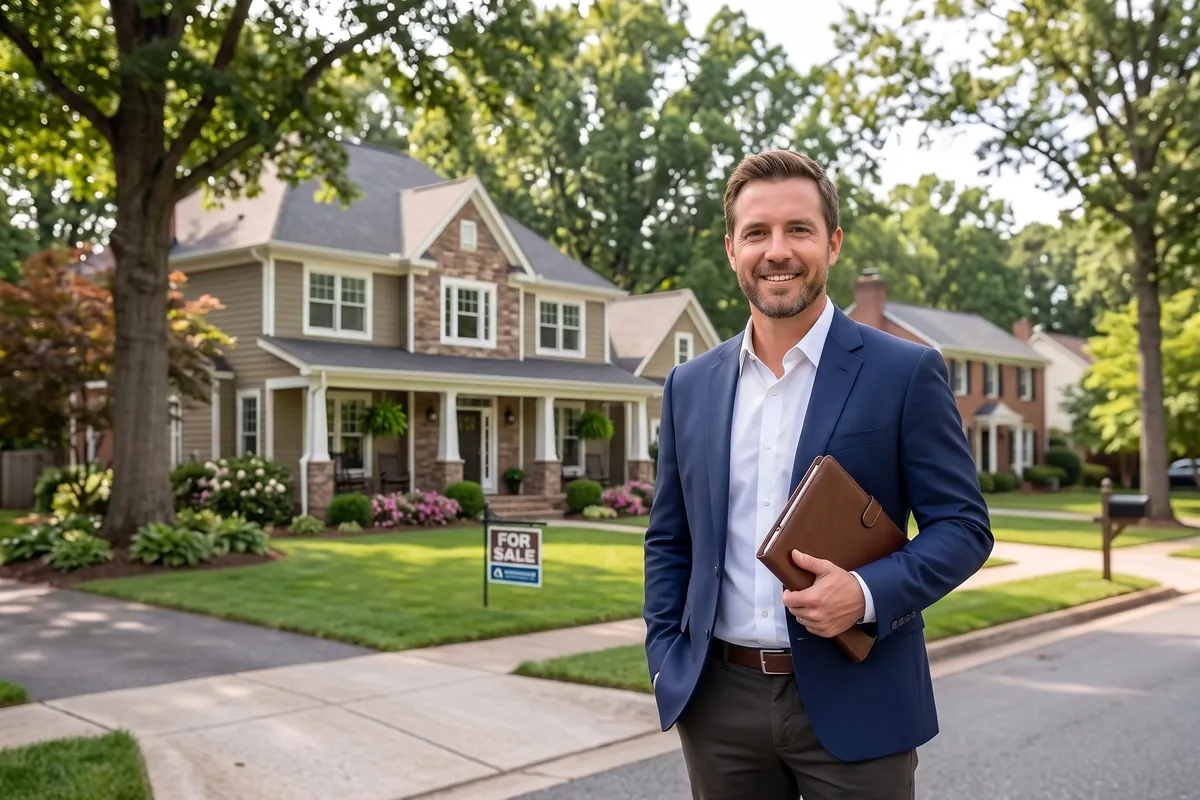
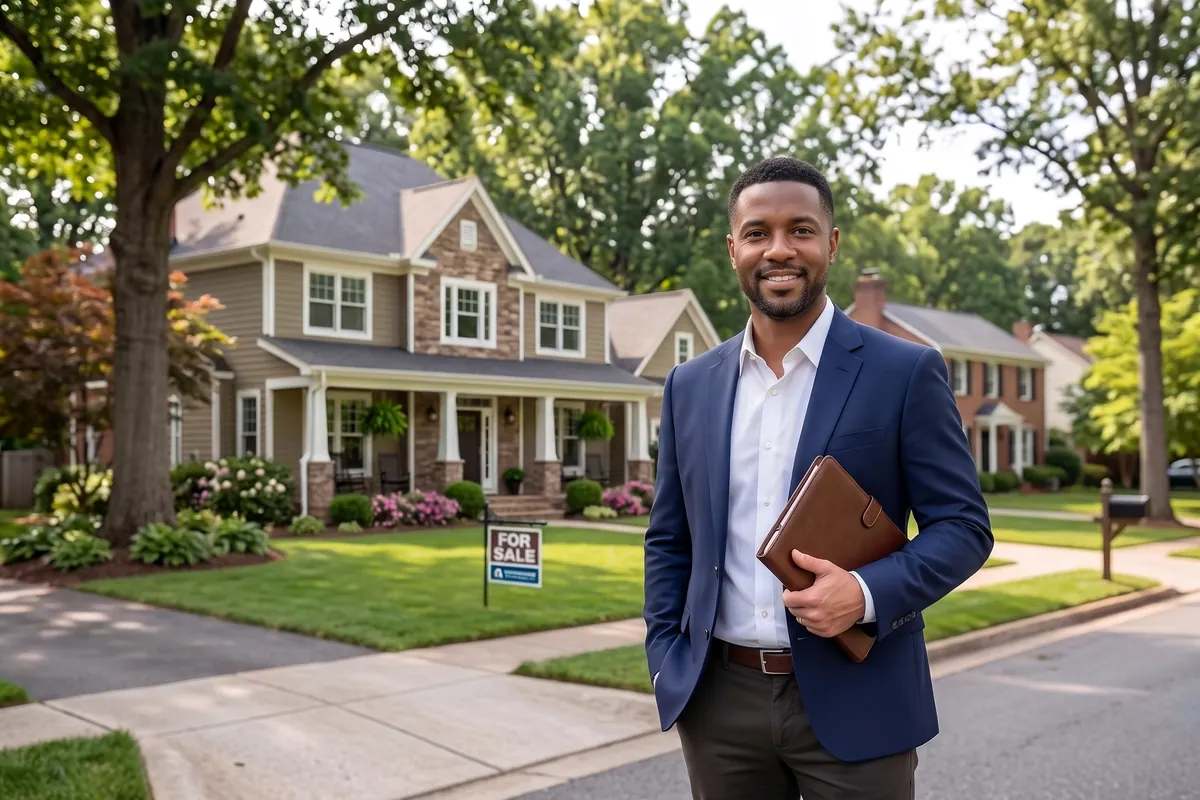
RE NC hero (re-site): boss replacement photo NC_RE_Male2_Agent

diff --git a/re/ko/north-carolina/index.html b/re/ko/north-carolina/index.html
@@ -148,7 +148,7 @@
       <a class="hero-note-link" href="/install-guide.html?exam=re">설치 방법 →</a>
     </div>
   </div>
-  <div class="hero-demo" id="hero-rot"><img class="hero-photo rot-active" src="/re/img/hero-re-nc.webp?v=9918d10ac1" width="1200" height="800" alt="매매 표지판이 있는 집 앞 거리에서 서류철을 들고 미소 짓는 부동산 에이전트" fetchpriority="high"></div>
+  <div class="hero-demo" id="hero-rot"><img class="hero-photo rot-active" src="/re/img/hero-re-nc.webp?v=617337c479" width="1200" height="800" alt="매매 표지판이 있는 집 앞 거리에서 서류철을 들고 미소 짓는 부동산 에이전트" fetchpriority="high"></div>
 </div></section>
 
 <section class="stats"><div class="wrap stats-grid"><div><div class="stat-num">700+</div><div class="stat-label">노스캐롤라이나 주 문제</div></div><div><div class="stat-num">4,400+</div><div class="stat-label">전국 공통 문제</div></div><div><div class="stat-num">TBD개</div><div class="stat-label">노스캐롤라이나 War Room 주제</div></div><div><div class="stat-num">Mock Exams</div><div class="stat-label">노스캐롤라이나 시험 형식 모의고사</div></div><div><div class="stat-num">30일</div><div class="stat-label">무료 체험</div></div></div></section>

diff --git a/re/north-carolina/index.html b/re/north-carolina/index.html
@@ -148,7 +148,7 @@
       <a class="hero-note-link" href="/install-guide.html?exam=re">How to install →</a>
     </div>
   </div>
-  <div class="hero-demo" id="hero-rot"><img class="hero-photo rot-active" src="/re/img/hero-re-nc.webp?v=9918d10ac1" width="1200" height="800" alt="Smiling real estate agent holding a portfolio on a tree-lined street with a For Sale sign" fetchpriority="high"></div>
+  <div class="hero-demo" id="hero-rot"><img class="hero-photo rot-active" src="/re/img/hero-re-nc.webp?v=617337c479" width="1200" height="800" alt="Smiling real estate agent holding a portfolio on a tree-lined street with a For Sale sign" fetchpriority="high"></div>
 </div></section>
 
 <section class="stats"><div class="wrap stats-grid"><div><div class="stat-num">700+</div><div class="stat-label">North Carolina Questions</div></div><div><div class="stat-num">4,400+</div><div class="stat-label">National Questions</div></div><div><div class="stat-num">TBD</div><div class="stat-label">North Carolina War Room Topics</div></div><div><div class="stat-num">Mock Exams</div><div class="stat-label">In North Carolina Exam Format</div></div><div><div class="stat-num">30 Days</div><div class="stat-label">Free Trial</div></div></div></section>
